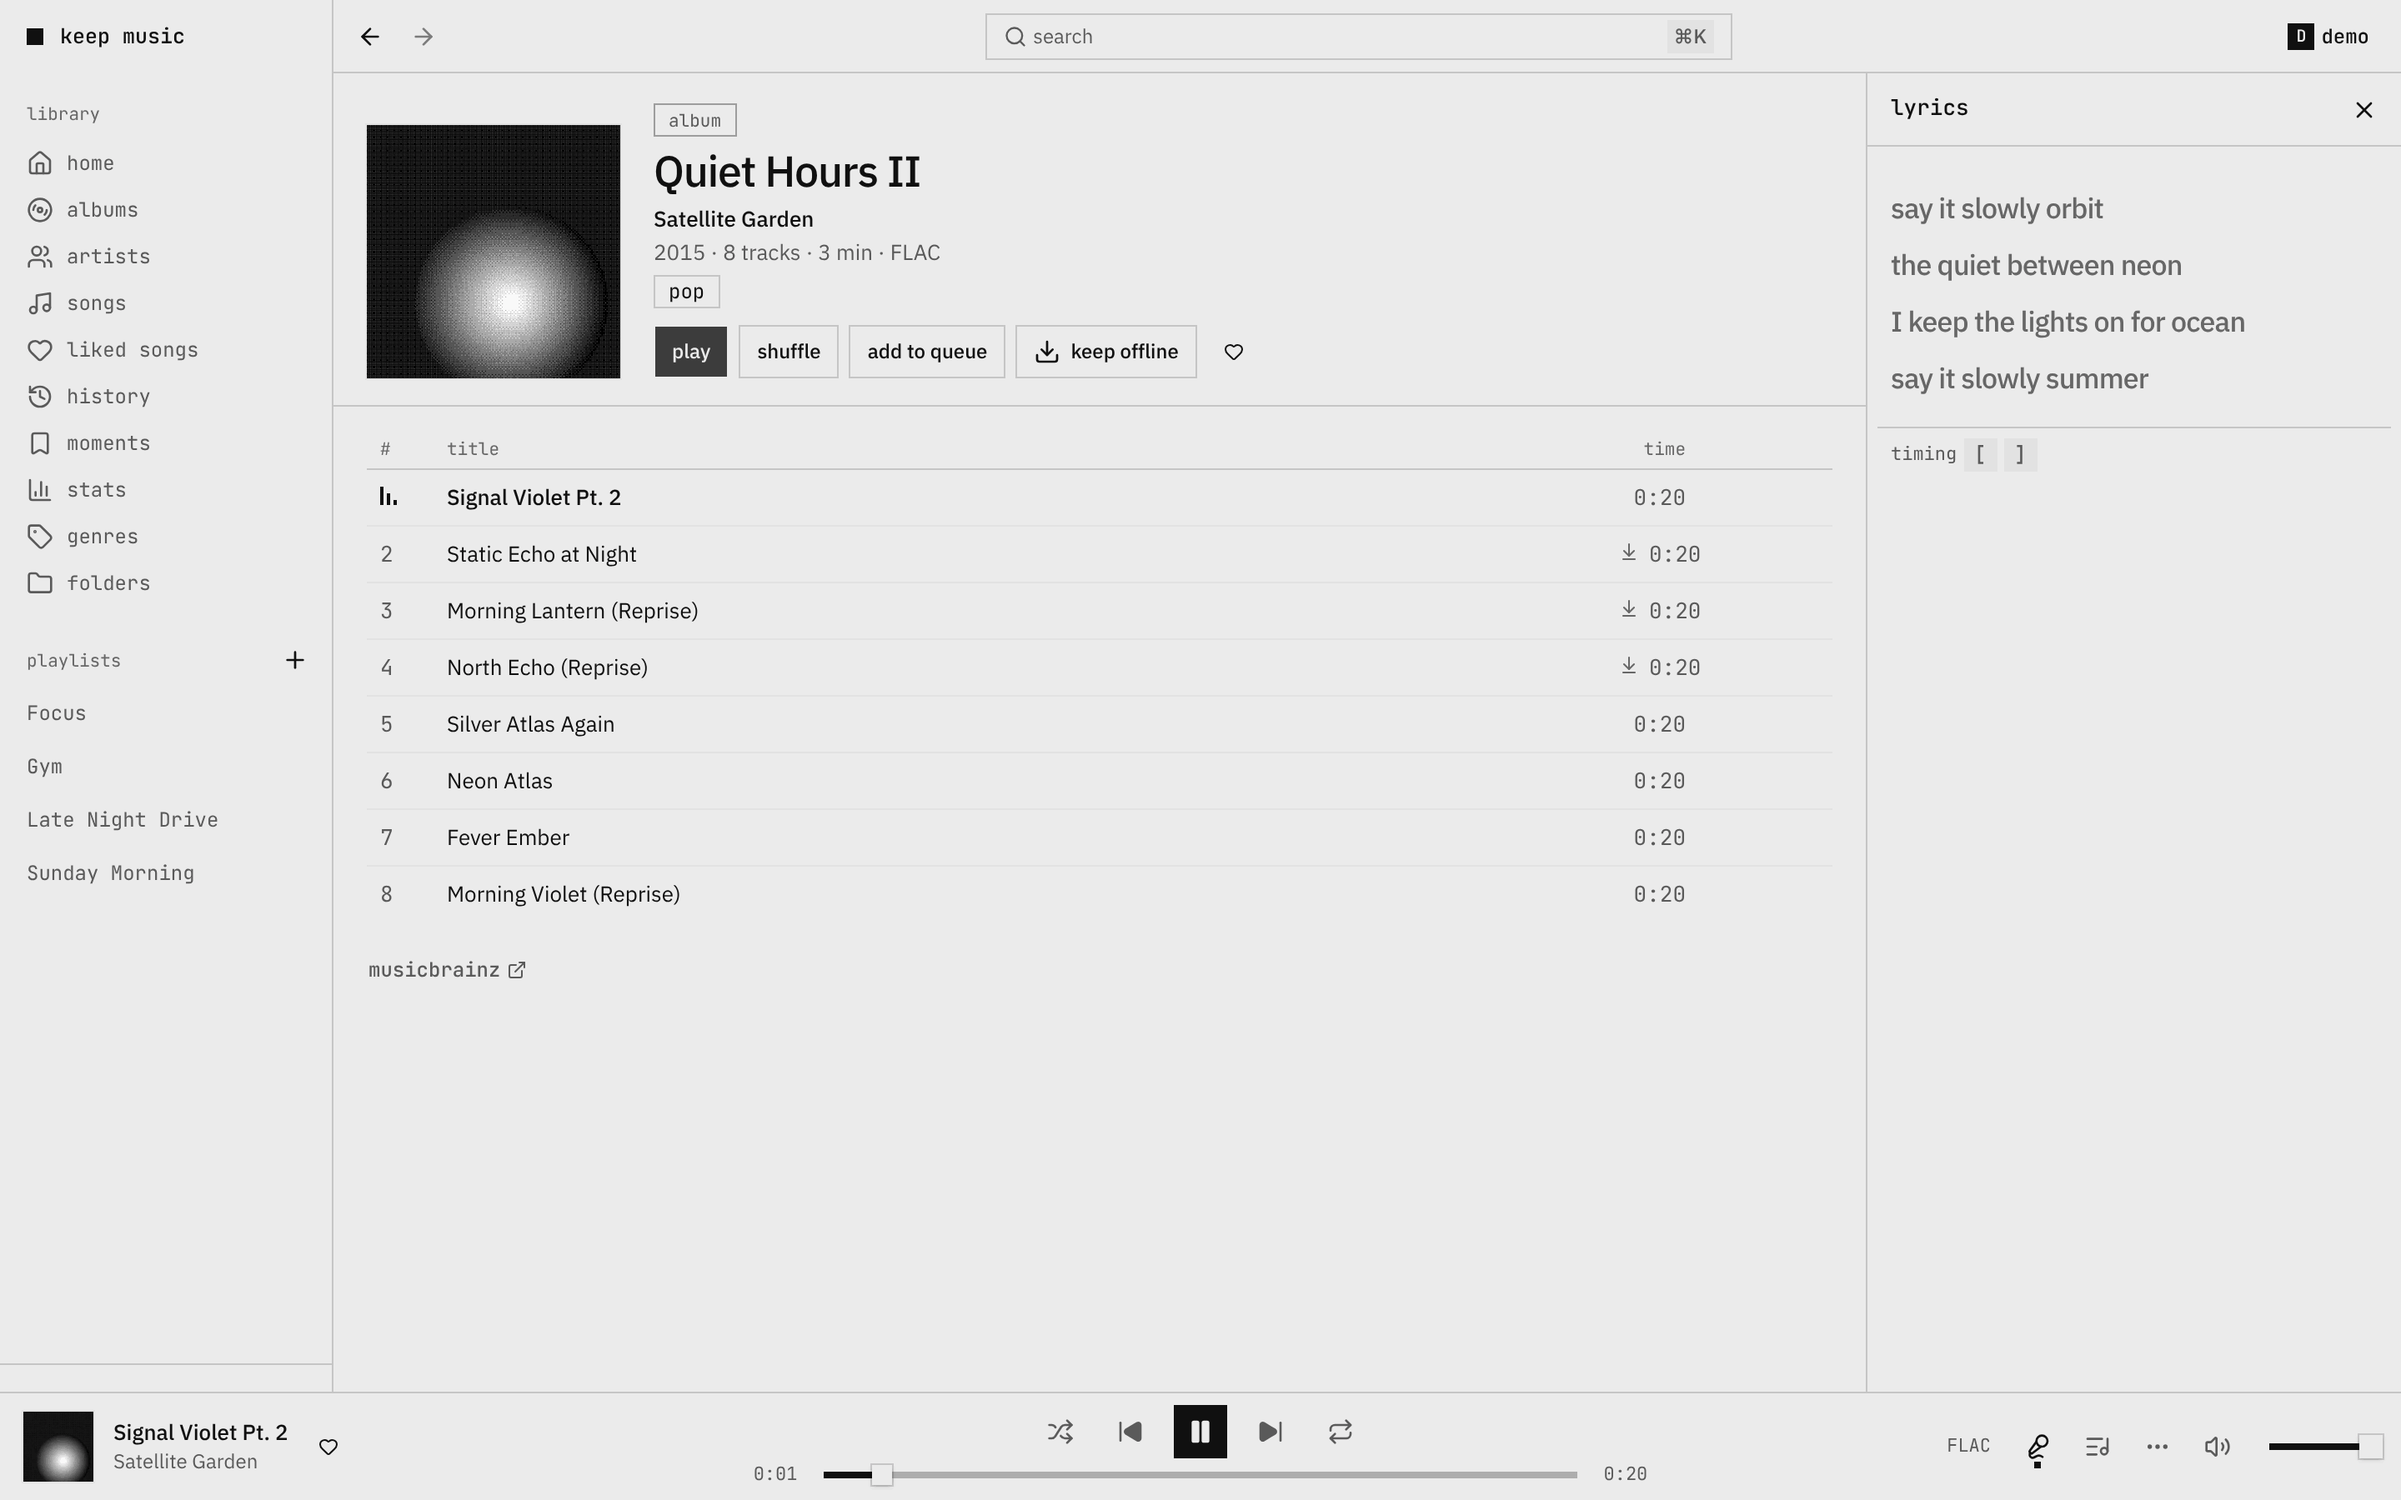
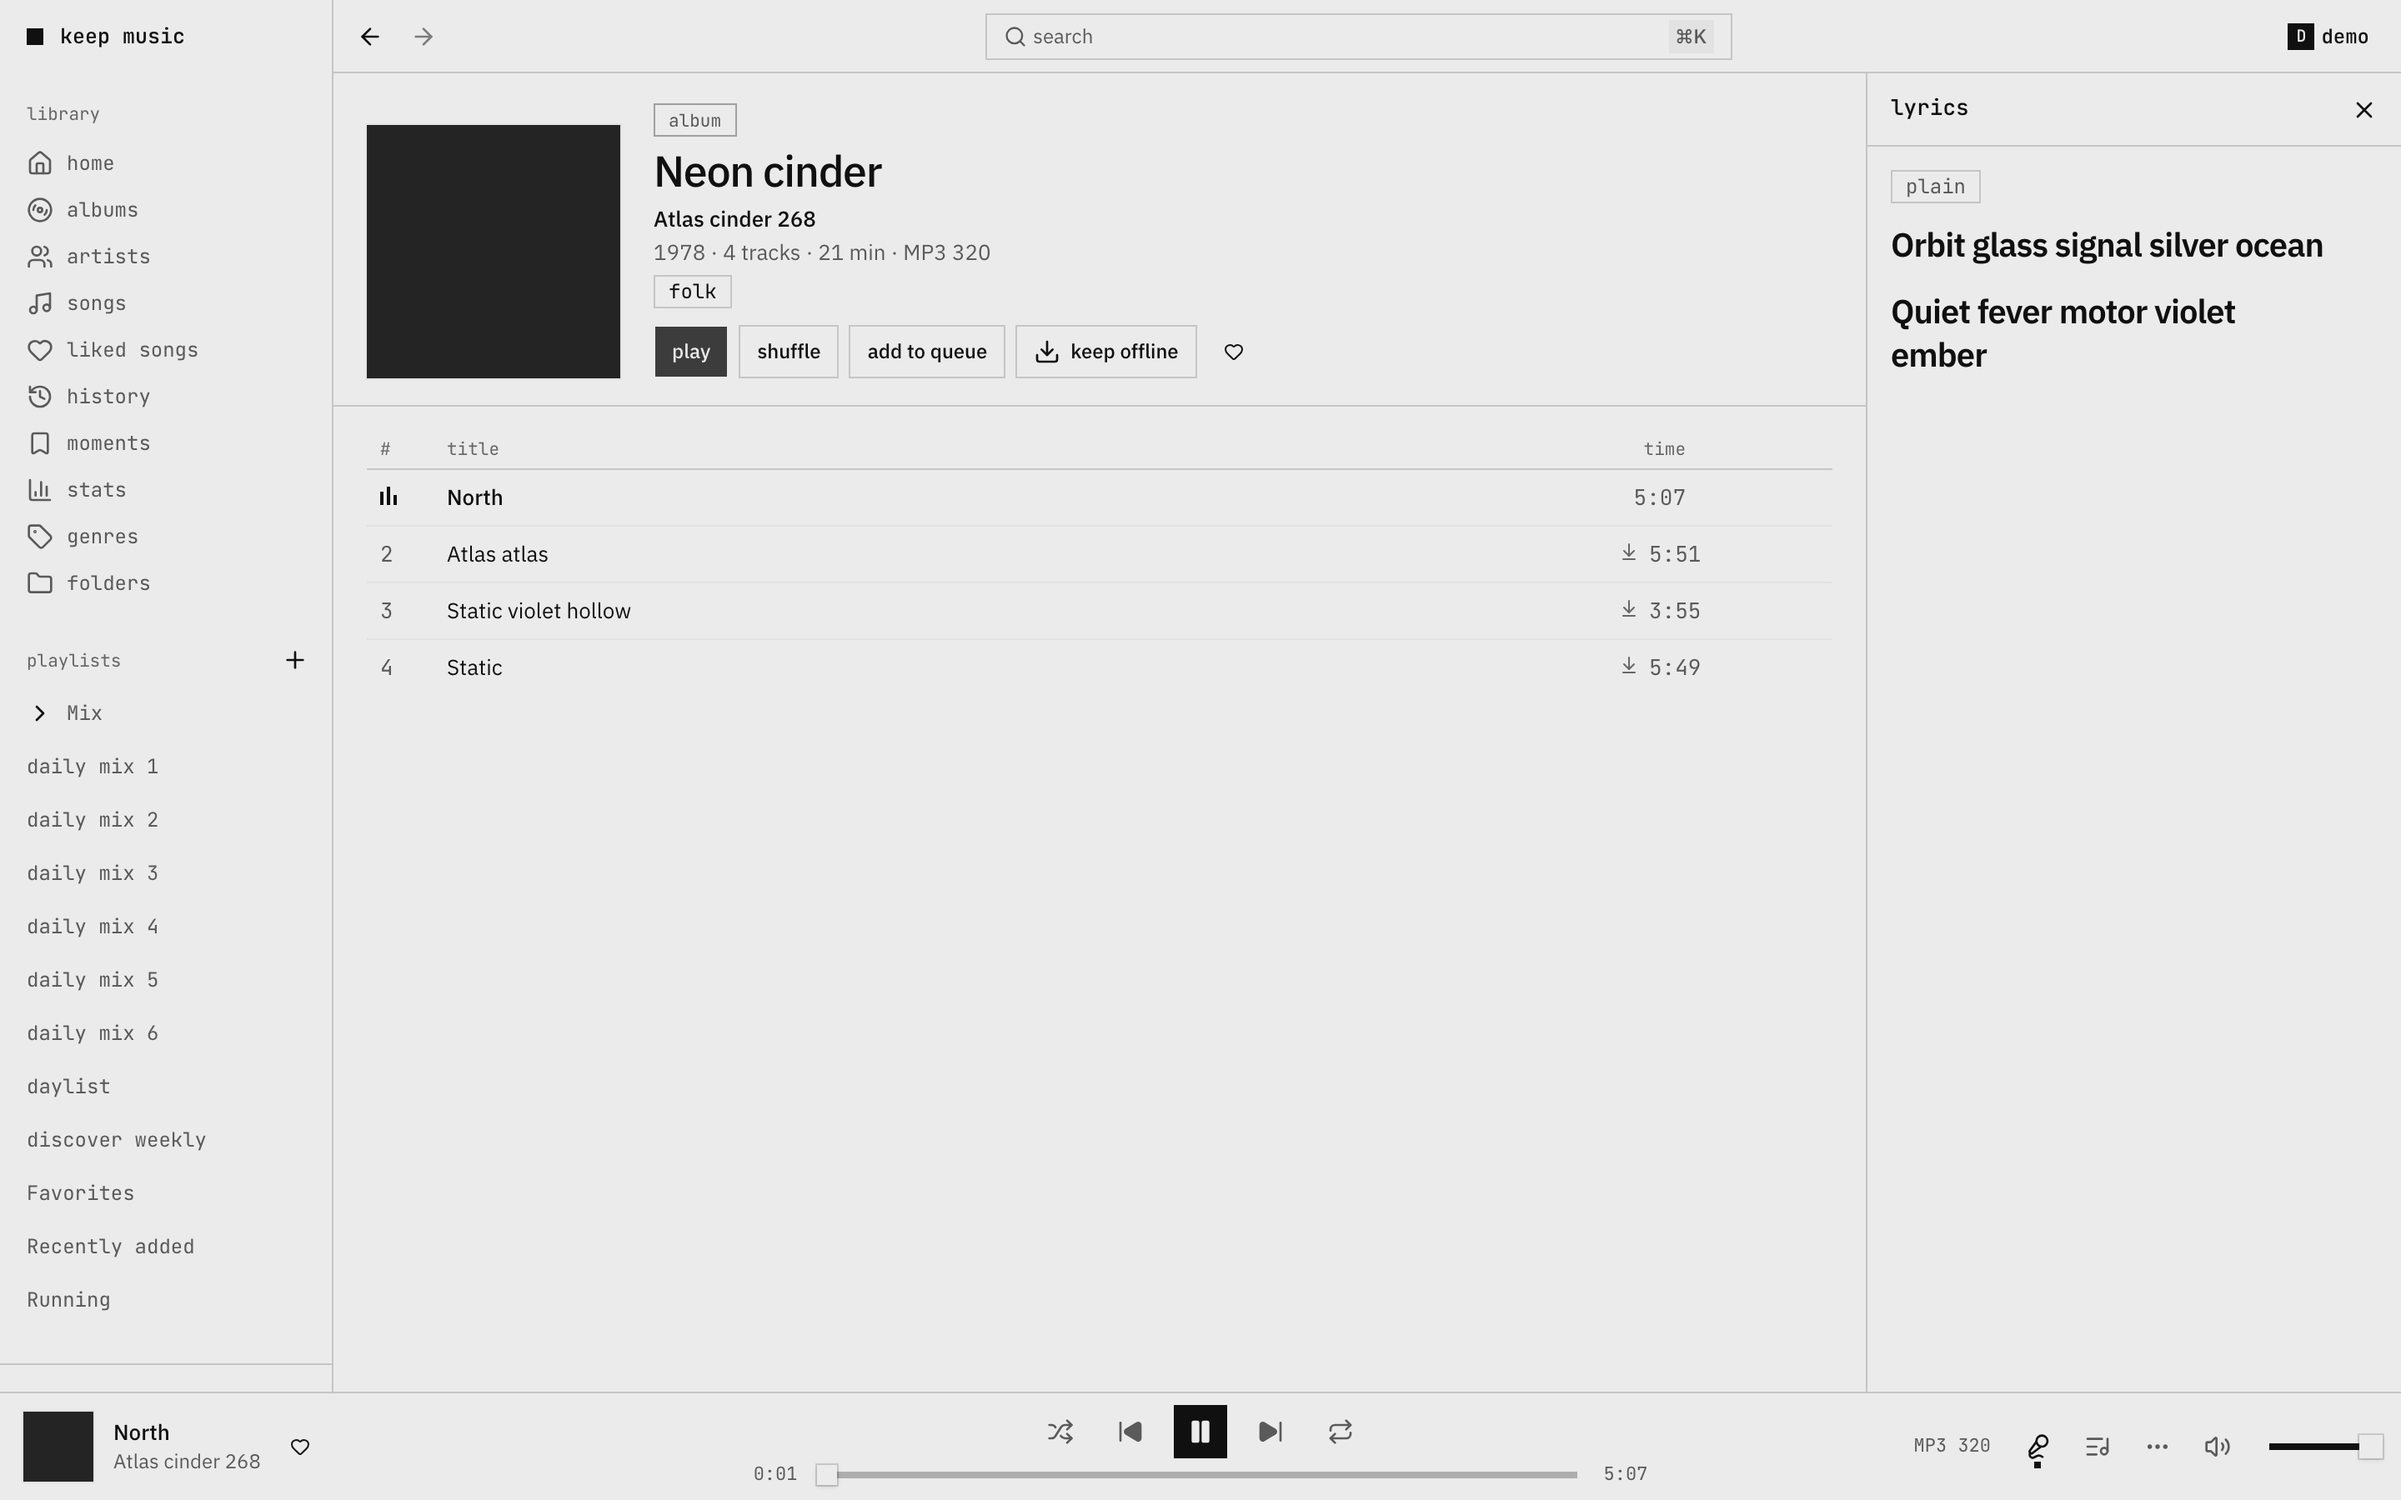
fix(web): light mode looks light

diff --git a/apps/web/src/app/page.tsx b/apps/web/src/app/page.tsx
@@ -132,18 +132,23 @@ function Section({ id, title, intro, children }: { id: string; title: ReactNode;
   );
 }
 
-function Shot({ src, alt, className, priority }: { src: string; alt: string; className?: string; priority?: boolean }) {
+/** A screenshot in the page's theme: `name.png` in dark mode, `name-light.png` in light mode. */
+function Shot({ name, alt, className, priority }: { name: string; alt: string; className?: string; priority?: boolean }) {
+  const image = (src: string, visibility: string) => (
+    <Image
+      src={src}
+      alt={alt}
+      width={2880}
+      height={1800}
+      priority={priority}
+      sizes="(min-width: 1152px) 1100px, 100vw"
+      className={cn("h-auto w-full", visibility)}
+    />
+  );
   return (
     <div className={cn("overflow-hidden border bg-card", className)}>
-      <Image
-        src={src}
-        alt={alt}
-        width={2880}
-        height={1800}
-        priority={priority}
-        sizes="(min-width: 1152px) 1100px, 100vw"
-        className="h-auto w-full"
-      />
+      {image(`/shots/${name}-light.png`, "dark:hidden")}
+      {image(`/shots/${name}.png`, "hidden dark:block")}
     </div>
   );
 }
@@ -195,12 +200,7 @@ export default async function Home() {
               <Island />
             </div>
           </div>
-          <Shot
-            src="/shots/album-lyrics.png"
-            alt="an album in keep music with its synced lyrics open beside it"
-            className="reveal mt-16"
-            priority
-          />
+          <Shot name="album-lyrics" alt="an album in keep music with its synced lyrics open beside it" className="reveal mt-16" priority />
         </section>
 
         <Section
@@ -335,16 +335,16 @@ export default async function Home() {
 
           <div className="mt-12 grid gap-4 sm:grid-cols-3">
             {[
-              { src: "/shots/search.png", alt: "⌘K search with songs, albums and artists", caption: "⌘K, ranked the way you listen" },
+              { name: "search", alt: "⌘K search with songs, albums and artists", caption: "⌘K, ranked the way you listen" },
               {
-                src: "/shots/stats.png",
+                name: "stats",
                 alt: "listening stats: minutes, top artists and a listening clock",
                 caption: "stats from your own plays",
               },
-              { src: "/shots/queue.png", alt: "the queue panel, with up next and history", caption: "a queue you can actually shape" },
+              { name: "queue", alt: "the queue panel, with up next and history", caption: "a queue you can actually shape" },
             ].map((shot) => (
-              <figure key={shot.src} className="reveal">
-                <Shot src={shot.src} alt={shot.alt} />
+              <figure key={shot.name} className="reveal">
+                <Shot name={shot.name} alt={shot.alt} />
                 <figcaption className="mt-3 text-muted-foreground text-sm">{shot.caption}</figcaption>
               </figure>
             ))}
@@ -413,23 +413,17 @@ export default async function Home() {
           </div>
         </Section>
 
-        <section className="border-t bg-foreground text-background">
+        <section className="border-t bg-card">
           <div className="mx-auto flex max-w-6xl flex-col items-start gap-8 px-4 py-20 sm:flex-row sm:items-end sm:justify-between sm:px-6">
             <div>
               <h2 className="font-medium text-3xl tracking-tight sm:text-5xl">bring your library.</h2>
-              <p className="mt-3 opacity-70">one container next to navidrome, a few minutes with the guide.</p>
+              <p className="mt-3 text-muted-foreground">one container next to navidrome, a few minutes with the guide.</p>
             </div>
             <div className="flex flex-wrap gap-3">
-              <a href={SELF_HOSTING} className={cn(buttonVariants({ size: "lg" }), "bg-background text-foreground hover:bg-background/85")}>
+              <a href={SELF_HOSTING} className={buttonVariants({ size: "lg" })}>
                 self-host it
               </a>
-              <a
-                href={DOCS}
-                className={cn(
-                  buttonVariants({ variant: "outline", size: "lg" }),
-                  "border-background/30 bg-transparent text-background hover:bg-background/10",
-                )}
-              >
+              <a href={DOCS} className={buttonVariants({ variant: "outline", size: "lg" })}>
                 read the docs
               </a>
             </div>

diff --git a/apps/web/src/components/island.tsx b/apps/web/src/components/island.tsx
@@ -66,11 +66,8 @@ export function Island() {
 
   return (
     // A laptop screen's top edge with the notch in the middle, over a quiet wallpaper.
-    <div
-      className="relative mx-auto h-[230px] w-full max-w-[560px] overflow-hidden border border-b-0 sm:h-[280px]"
-      style={{ background: "radial-gradient(120% 90% at 30% 110%, #3a3a3a 0%, #151515 55%, #0b0b0b 100%)" }}
-    >
-      <div className="absolute inset-x-0 top-0 flex h-7 items-center justify-between px-3 font-mono text-[10px] text-white/60">
+    <div className="island-screen relative mx-auto h-[230px] w-full max-w-[560px] overflow-hidden border border-b-0 sm:h-[280px]">
+      <div className="absolute inset-x-0 top-0 flex h-7 items-center justify-between px-3 font-mono text-[10px] text-foreground/60">
         <span>keep music</span>
         <span>{new Date(0, 0, 1, 9, 41).toLocaleTimeString("en", { hour: "numeric", minute: "2-digit" })}</span>
       </div>
@@ -125,7 +122,7 @@ export function Island() {
           </button>
         )}
       </div>
-      <p className="absolute inset-x-0 bottom-4 text-center font-mono text-[11px] text-white/45">hover the notch</p>
+      <p className="absolute inset-x-0 bottom-4 text-center font-mono text-[11px] text-foreground/45">hover the notch</p>
     </div>
   );
 }

diff --git a/apps/web/src/app/globals.css b/apps/web/src/app/globals.css
@@ -36,6 +36,14 @@
   }
 }
 
+/* The desktop behind the notch: light or dark with the page; the island itself stays black like the real notch. */
+.island-screen {
+  background: radial-gradient(120% 90% at 30% 110%, #ffffff 0%, #e4e4e4 50%, #d2d2d2 100%);
+}
+.dark .island-screen {
+  background: radial-gradient(120% 90% at 30% 110%, #3a3a3a 0%, #151515 55%, #0b0b0b 100%);
+}
+
 /* The island's level bars. */
 @keyframes island-bar {
   0%,
